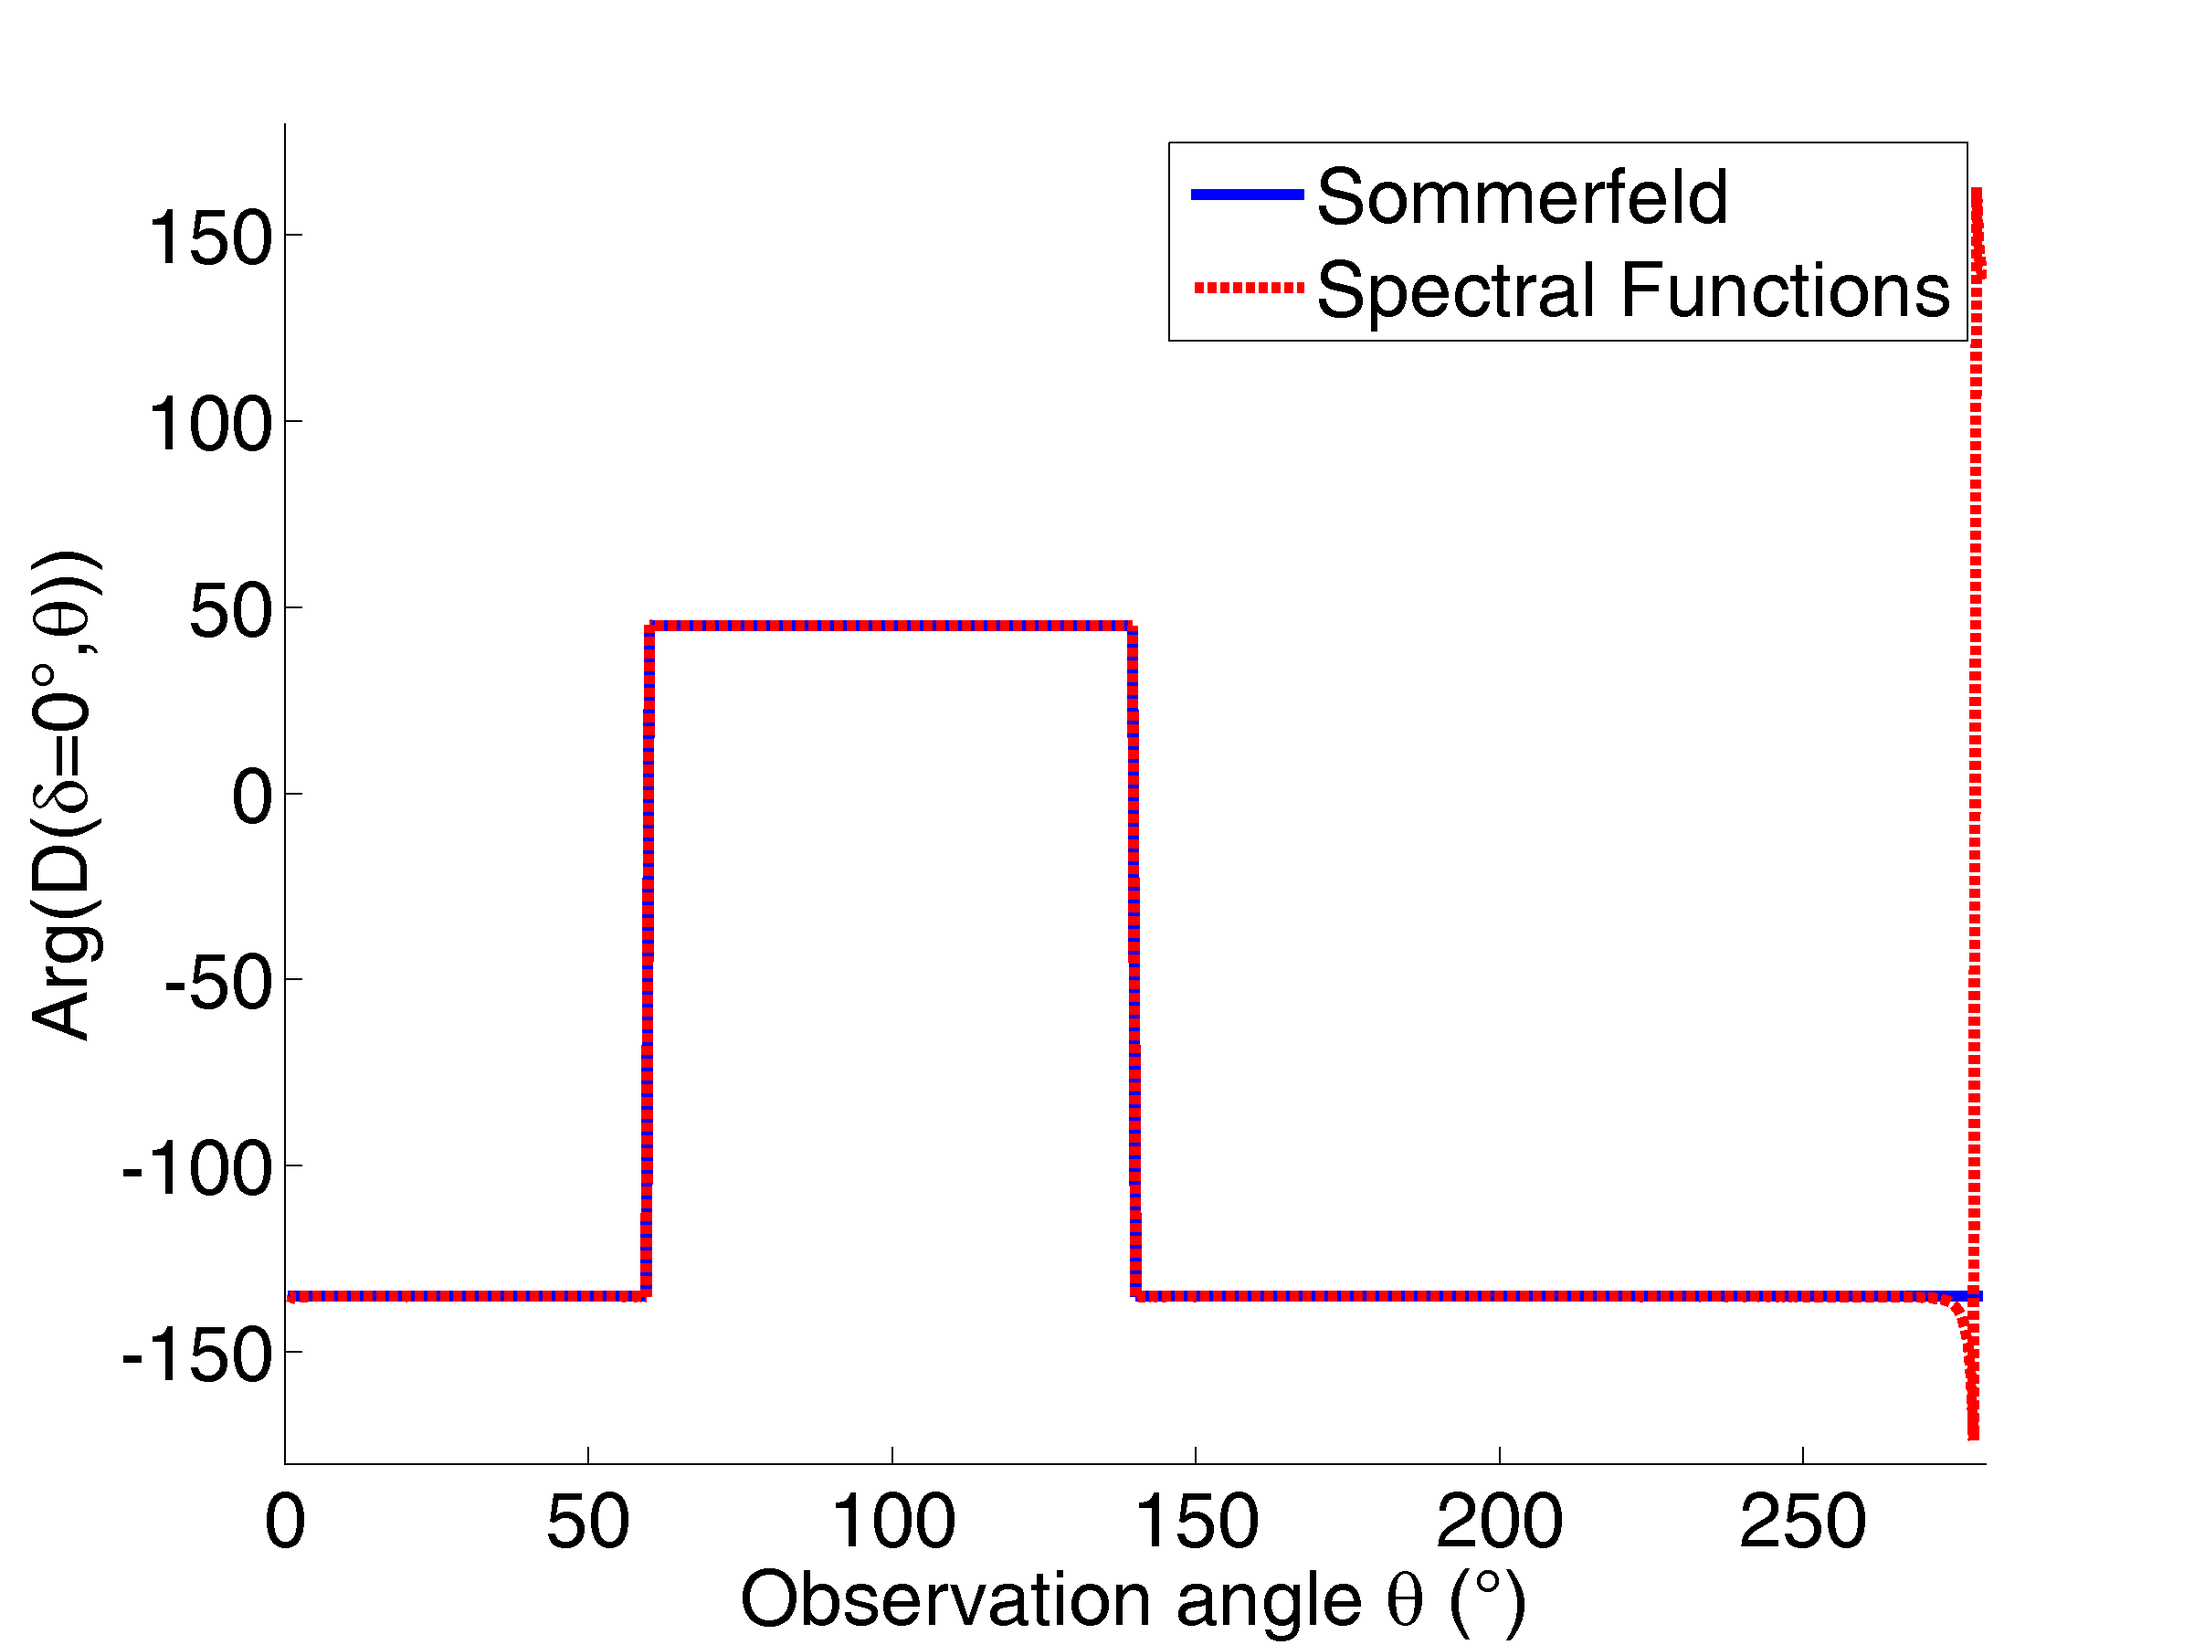
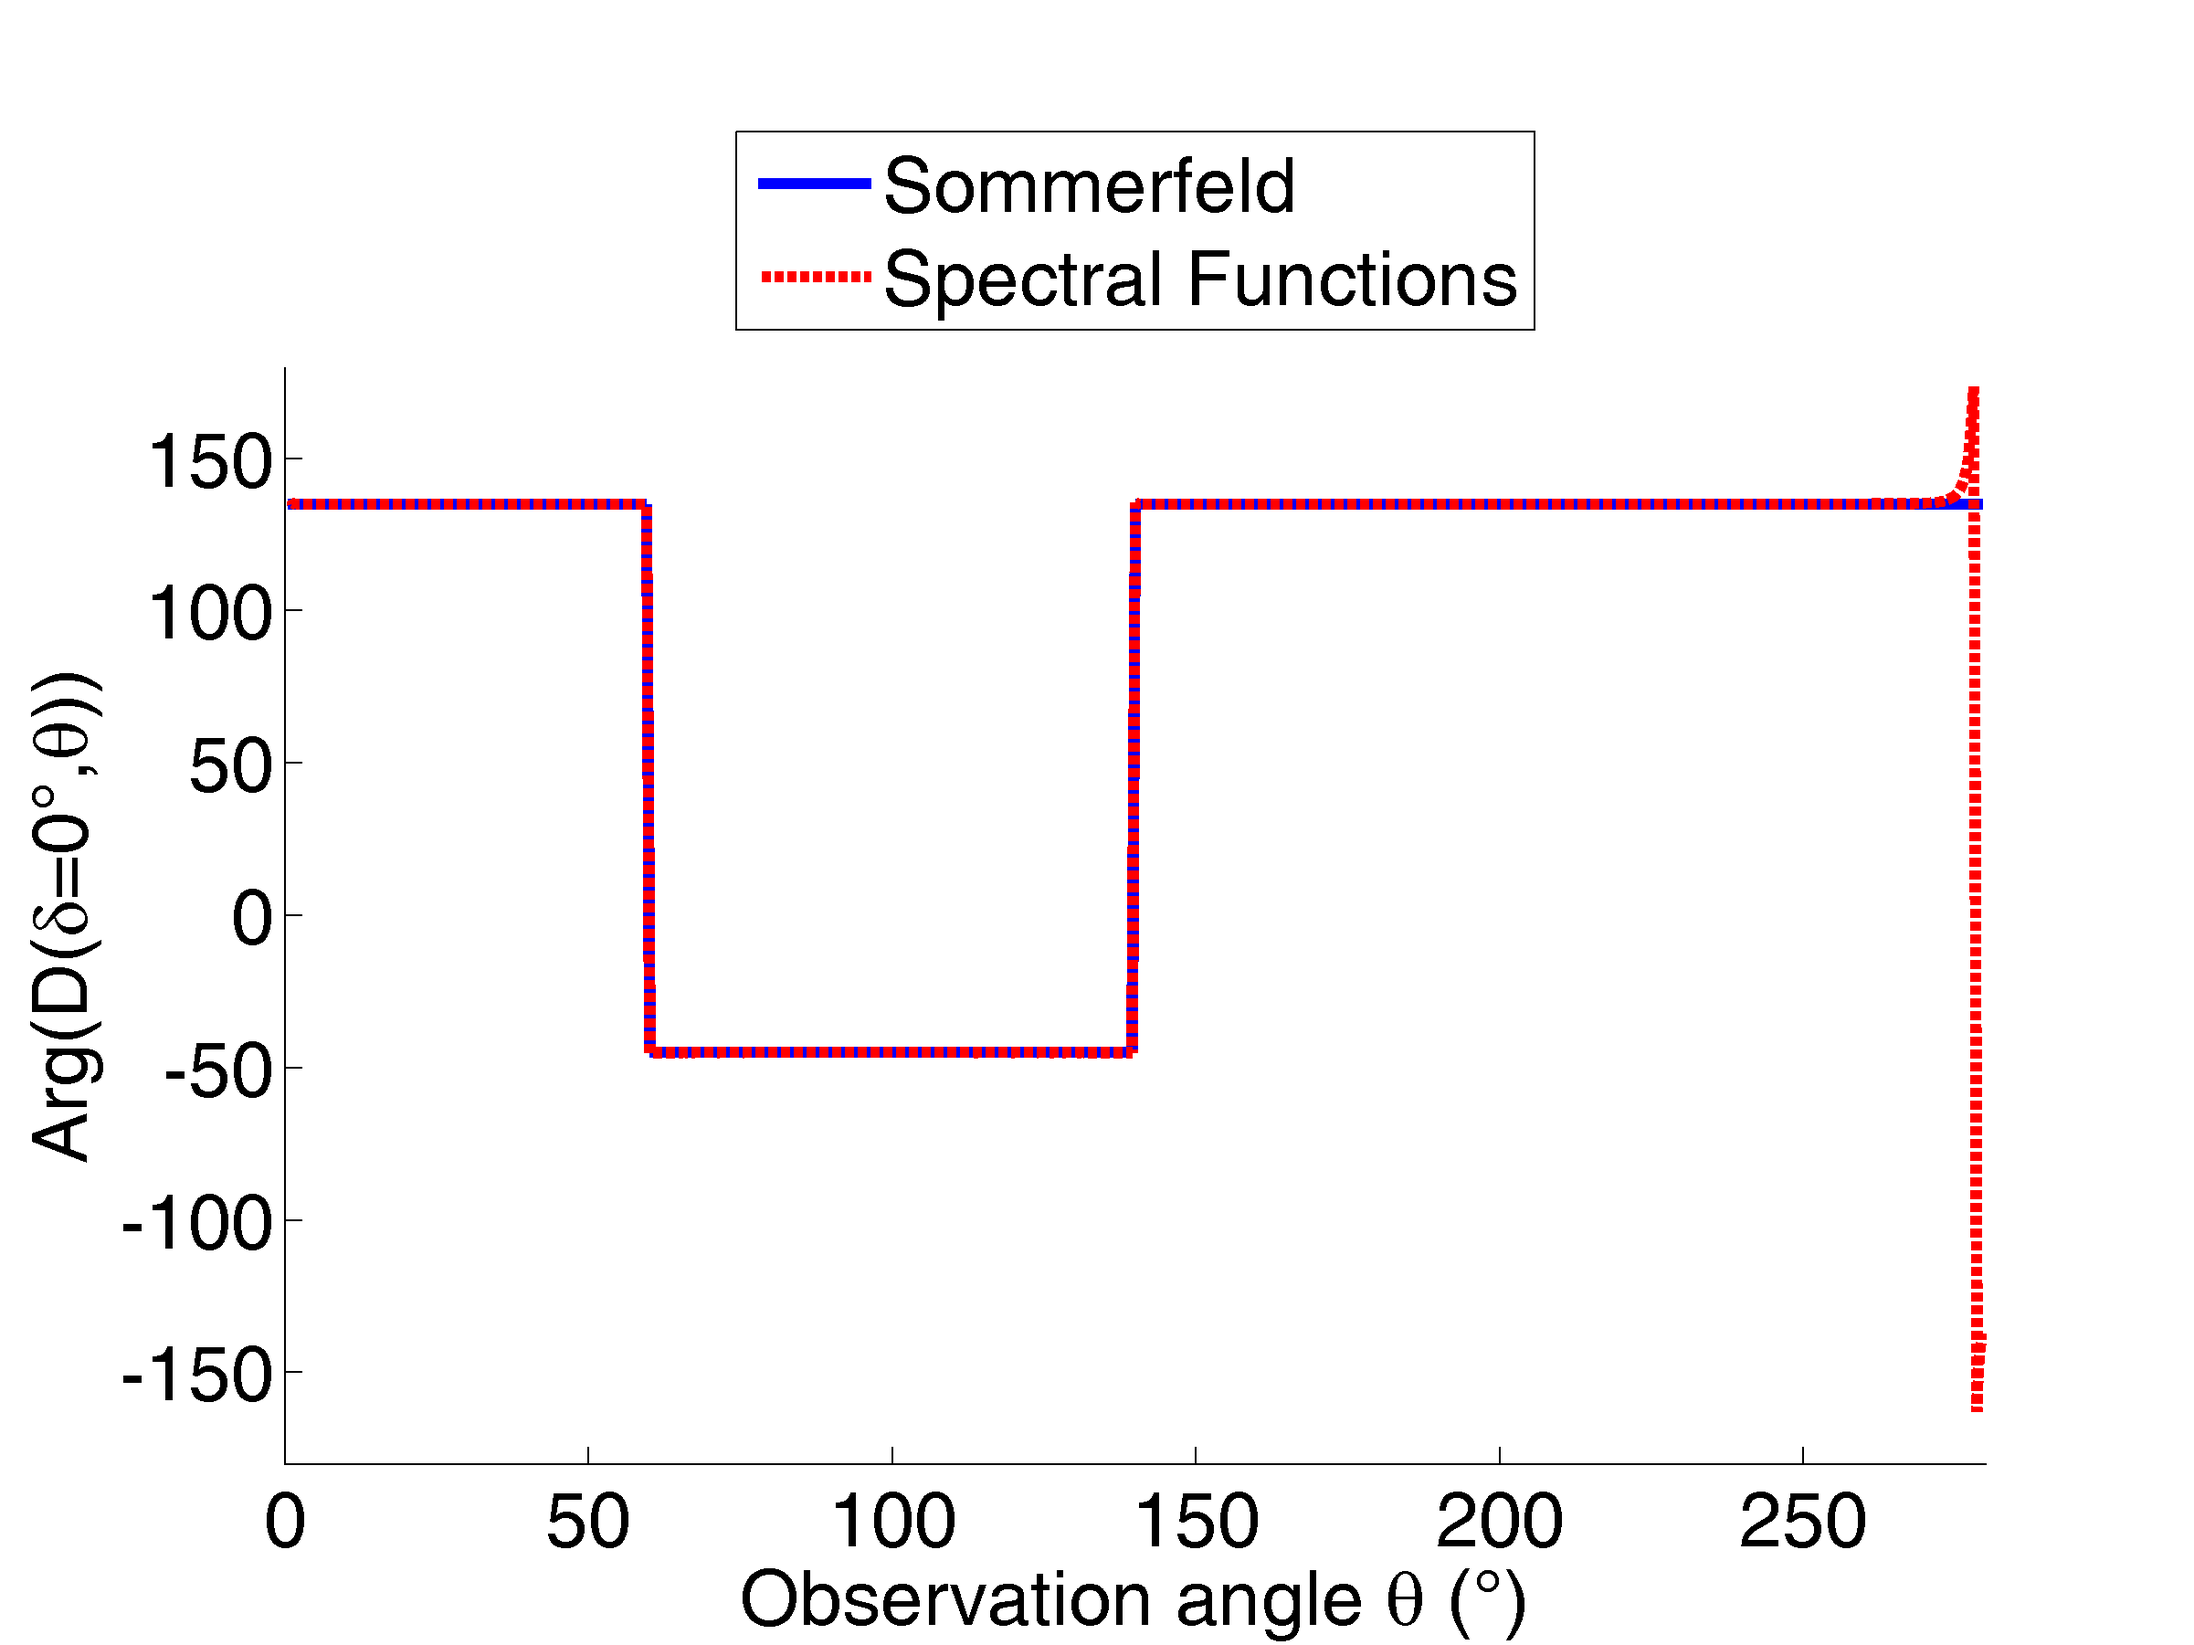
fixing phase lengends so not on plot

diff --git a/en-arborescence/corps/chapter4.tex b/en-arborescence/corps/chapter4.tex
@@ -1867,7 +1867,7 @@ In the 3D elastic code, the wave velocities are set to $c_L=1 m.s^{-1}$ and $c_T
 
 Figs.~\ref{C4:ac16040} and \ref{C4:ac280240} show the absolute value of the diffraction coefficient obtained using the \acrshort{sf} code (Figs.~\ref{C4:acSF16040} and \ref{C4:acSF280240}) and with Sommerfeld's analytical expression (Figs.~\ref{C4:Som16040} and \ref{C4:Som280240}) for a wave incident with an angle $\theta_{inc}=40^o$ on a wedge of angle $\varphi=160^o$ and for a wave incident with an angle $\theta_{inc}=240^o$ on a wedge of angle $\varphi=280^o$, respectively. 
 
-In both cases, the diffraction coefficients are computed for various incident skew angles $\delta_{\alpha}$ to check that the \acrshort{sf} diffraction coefficient is independent of this parameter, as it should be in the acoustic case. The horizontal axis corresponds to the observation angle $\theta$, the vertical axis corresponds to the incident skew angle $\delta_{\alpha}$ and the magnitude of the diffraction coefficients is represented in color in the $(\theta,\delta_{\alpha})$ plane. For both wedges, the figures representing the \acrshort{sf} diffraction coefficients and those representing the Sommerfeld diffraction coefficients appear to be identical and are invariant by vertical translation (meaning that the coefficients do not depend on the angle $\delta_{\alpha}$). The diffraction coefficients can therefore be plotted for a single skew angle, without loss of generality. 
+In both cases, the diffraction coefficients are computed for various incident skew angles $\delta_{\alpha}$ to check that the \acrshort{sf} diffraction coefficient is independent of this parameter, as it should be in the acoustic case. The horizontal axis corresponds to the observation angle $\theta$, the vertical axis corresponds to the incident skew angle $\delta_{\alpha}$ and the magnitude of the diffraction coefficients is represented in color in the $(\theta,\delta_{\alpha})$ plane. For both wedges, the figures representing the \acrshort{sf} diffraction coefficients and those representing the Sommerfeld diffraction coefficients appear to be identical and are invariant by vertical translation (meaning that the coefficients do not depend on the angle $\delta_{\alpha}$). The diffraction coefficients can therefore be plotted for a single skew angle, without loss of generality. This is also the case for the angular phases of the diffraction coefficients, and their plots in the $(\theta,\delta_{\alpha})$ plane are not reproduced here.
 
 \begin{figure}
 \centering
@@ -1917,7 +1917,7 @@ In both cases, the diffraction coefficients are computed for various incident sk
 \label{C4:Argcompac}
 \end{figure}
 
-Figs.~\ref{C4:compac} and \ref{C4:Argcompac} respectively show the absolute value and the angular phase of the diffraction coefficient, plotted for $\delta_{\alpha}=0^o$ for a wave incident with an angle $\theta_{\alpha}=40^o$ on a wedge of angle $\varphi=160^o$ (see Fig.~\ref{C4:compac16040}) and for a wave incident with an angle $\theta_{\alpha}=240^o$ on a wedge of angle $\varphi=280^o$ (see Fig.~\ref{C4:compac280240}). In all four figures, the thick blue line is the solution computed using Sommerfeld's analytical expression and the dashed red line is the result obtained using acoustic limit of the 3D \acrshort{sf} code. Both lines are perfectly overlapping, except for some discrepancies in the phase function, for observation directions near the wedge faces.
+Figs.~\ref{C4:compac} and \ref{C4:Argcompac} respectively show the absolute value and the angular phase of the diffraction coefficient, plotted for $\delta_{\alpha}=0^o$ for a wave incident with an angle $\theta_{\alpha}=40^o$ on a wedge of angle $\varphi=160^o$ (see Fig.~\ref{C4:compac16040}) and for a wave incident with an angle $\theta_{\alpha}=240^o$ on a wedge of angle $\varphi=280^o$ (see Fig.~\ref{C4:compac280240}). In all four figures, the thick blue line is the solution computed using Sommerfeld's analytical expression and the dashed red line is the result obtained using acoustic limit of the 3D \acrshort{sf} code. Both lines are perfectly overlapping, except for some discrepancies in the angular phase, for observation directions near the wedge faces.
 
 The "acoustic limit" of the 3D elastic code is thus validated for wedge angles lower and higher than $\pi$. This shows that the terms appearing in the evaluation of the spectral functions that depend on $\nuti_T$ tend to $0$ when transversal wave velocity tends to $0$ and that the terms that depend on $\nuti_L$ are computed correctly. 
 
